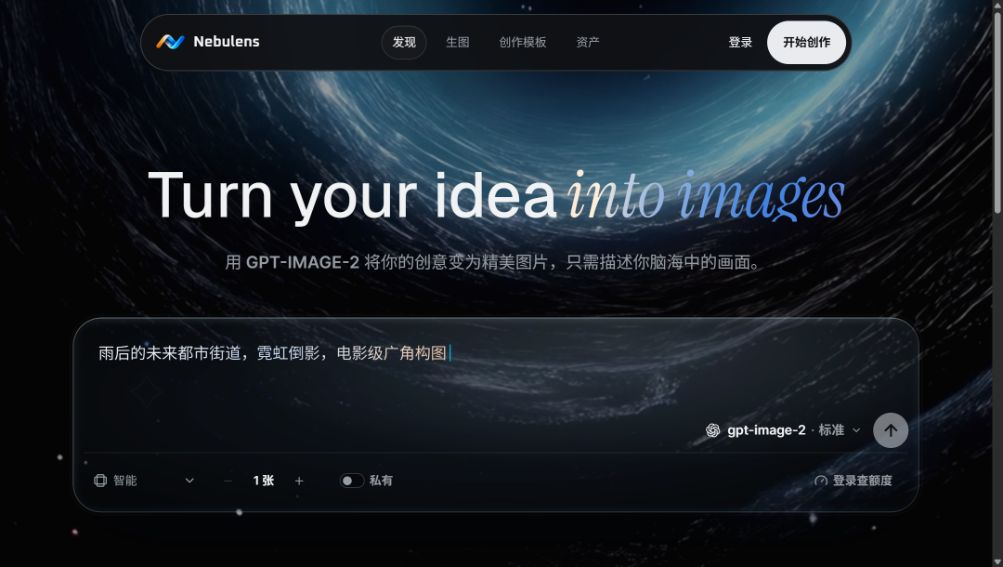
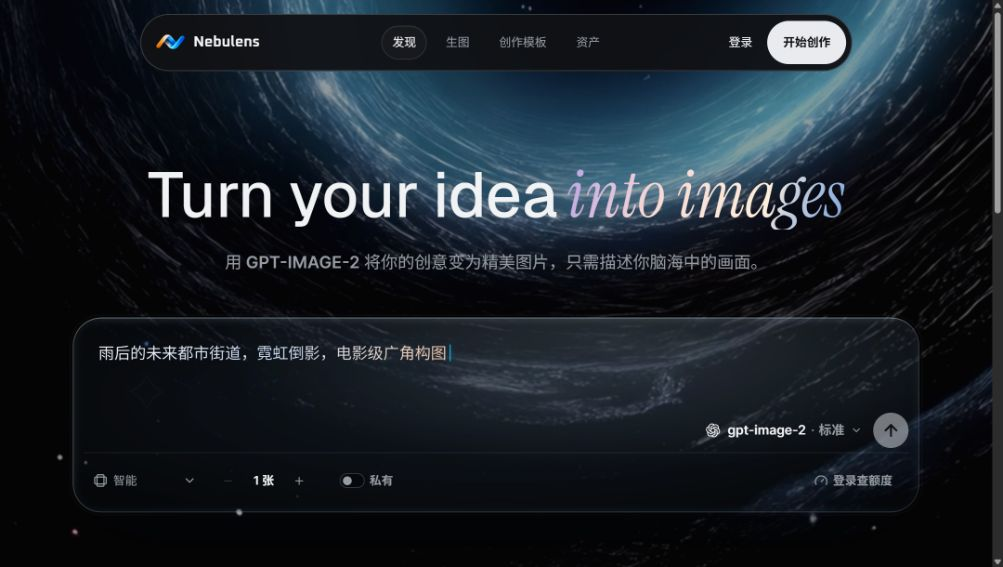
fix: 修复首页标题裁切与流光方向

Changed region(s): [[0.5563, 0.2998, 0.8345, 0.4198]]

diff --git a/frontend/src/styles/base.css b/frontend/src/styles/base.css
@@ -620,6 +620,8 @@ video {
   word-spacing: -0.03em;
 }
 .landing-hero__content h1 em {
+  margin-bottom: -0.12em;
+  padding-bottom: 0.12em;
   font-family: var(--font-hero-serif);
   font-size: 1.05em;
   font-style: italic;
@@ -633,10 +635,10 @@ video {
 }
 @keyframes shiny {
   0% {
-    background-position: -200% center;
+    background-position: 200% center;
   }
   100% {
-    background-position: 200% center;
+    background-position: -200% center;
   }
 }
 @keyframes landing-title-in {

diff --git a/design.md b/design.md
@@ -390,7 +390,7 @@ The home page is a product-first creation screen, not a Squarespace clone.
 
 - Use a full dark first viewport with the beUI Expanding pill navigation, centered product statement, and a functional Agent Composer. The desktop pill stays fixed at the top, expands continuously from `720px` to `960px` over the first `320px` of scroll, and uses one shared-layout surface for hover and current-route emphasis.
 - On mobile, reduce the Expanding pill to brand plus menu control and open navigation/actions in a rounded graphite overlay below it. Preserve Escape closing, route-current semantics, and zero horizontal overflow.
-- Keep the copy short: brand/product name, one concrete creation promise, and the composer placeholder. Set `Turn your idea` in Geist Variable at 460 weight with slightly tightened word spacing, and `into images` in same-scale Instrument Serif Italic. Align both on one baseline with a deliberate natural-space gap between the font treatments. Apply the Apple-inspired `110deg` blue-lilac-blush-ivory shiny gradient only to `into images`, pan its `200%` background from `-200%` to `200%` over a quiet 6-second linear loop, and hold a static centered gradient under reduced motion. Retain the restrained upward fade on entry.
+- Keep the copy short: brand/product name, one concrete creation promise, and the composer placeholder. Set `Turn your idea` in Geist Variable at 460 weight with slightly tightened word spacing, and `into images` in same-scale Instrument Serif Italic. Align both on one baseline with a deliberate natural-space gap between the font treatments. Apply the Apple-inspired `110deg` blue-lilac-blush-ivory shiny gradient only to `into images`, pan its `200%` background from `200%` to `-200%` so the visible sheen travels left to right over a quiet 6-second linear loop, and hold a static centered gradient under reduced motion. Give the italic accent compensated lower padding so the `g` descender stays fully painted without moving the following content. Retain the restrained upward fade on entry.
 - Keep the video, navigation, headline, and Agent Composer within a full `100svh` first viewport. Preserve the video across that complete viewport; pull the creation feed upward into the open space below the composer so the first image row appears within the first viewport rather than starting near the bottom.
 - Present the six bundled works with beUI Pro `image-gallery-vertical`: four alternating motion columns on wide screens and the component's compact two-column layout below the large breakpoint. The gallery loops its local images vertically, never horizontally, and has no pagination or previous/next controls. Respect `prefers-reduced-motion` by freezing the columns.
 - Keep the home gallery unlabeled and pull it upward into the lower hero space while preserving a clear visual boundary below the Agent Composer. Blend its moving columns into the graphite canvas with a long, symmetric multi-stop edge mask instead of a short linear fade. Use real generated images with `16px` radius, subtle borders, a restrained hover zoom, and the shared image-detail modal on primary images.

diff --git a/design-qa.md b/design-qa.md
@@ -330,7 +330,7 @@ No actionable P0, P1, or P2 findings remain.
 
 - Fonts and typography: `Turn your idea` remains the existing Geist Variable treatment; only the Instrument Serif Italic `into images` span receives the shiny gradient, preserving the shared baseline and existing title scale.
 - Colors and visual tokens: the inline gradient uses the requested 110deg stops `#3D81E3`, `#AE9AE6`, `#F8D8D5`, `#FEEFDB`, and `#3D81E3`. The effect is limited to the headline text and does not tint the video, composer, or navigation.
-- Motion: the browser reports `6s linear infinite shiny`, and sampled `background-position` values advance between captures. The reduced-motion media rule disables the loop and centers the gradient.
+- Motion: the browser reports `6s linear infinite shiny`, and sampled `background-position` values decrease from the positive side toward the negative side so the visible sheen travels left to right. The reduced-motion media rule disables the loop and centers the gradient.
 - Responsive integrity: desktop and mobile screenshots retain the complete headline, with zero horizontal document overflow and no overlap with the subtitle or composer.
 - Copy and content: the accessible heading remains `Turn your idea into images` and the visible copy is unchanged.
 
@@ -338,6 +338,7 @@ No actionable P0, P1, or P2 findings remain.
 
 - Added the reusable `.animate-shiny` utility and `@keyframes shiny` to the existing global stylesheet.
 - Added the typed React gradient style object and applied it only to the `into images` headline span.
+- Added compensated lower padding and negative margin to keep the italic `g` descender painted without moving the subtitle or composer, and reversed the keyframe direction for left-to-right travel.
 - Added a regression test for the animation class, gradient stops, and inline sizing contract.
 - Added a static centered-gradient fallback for `prefers-reduced-motion` and documented the contract in `design.md` and the active Trellis PRD.
 

diff --git a/.trellis/tasks/07-30-nebulens-beui-product-workspace-rebuild/prd.md b/.trellis/tasks/07-30-nebulens-beui-product-workspace-rebuild/prd.md
@@ -33,7 +33,8 @@ Completely rebuild the Generate, Creation Templates, Assets, Sign In, and Sign U
 - Reframe the overscanned desktop hero video around its visual focal point rather than its source-box
   midpoint so the vortex reads centered behind the title and composer.
 - Apply the supplied 6-second blue-lilac-blush-ivory shiny gradient only to the italic `into images`
-  headline accent, with a static centered gradient when reduced motion is requested.
+  headline accent. Its visible sheen travels left to right, keeps italic descenders fully painted, and
+  becomes a static centered gradient when reduced motion is requested.
 - Expose the material as a typed optional `AgentChatInput` capability and enable it only on Discover;
   Generate must keep its existing workbench surface.
 - Preserve root overflow for menus, clip only the glass layers, retain the focused gradient edge ring,
